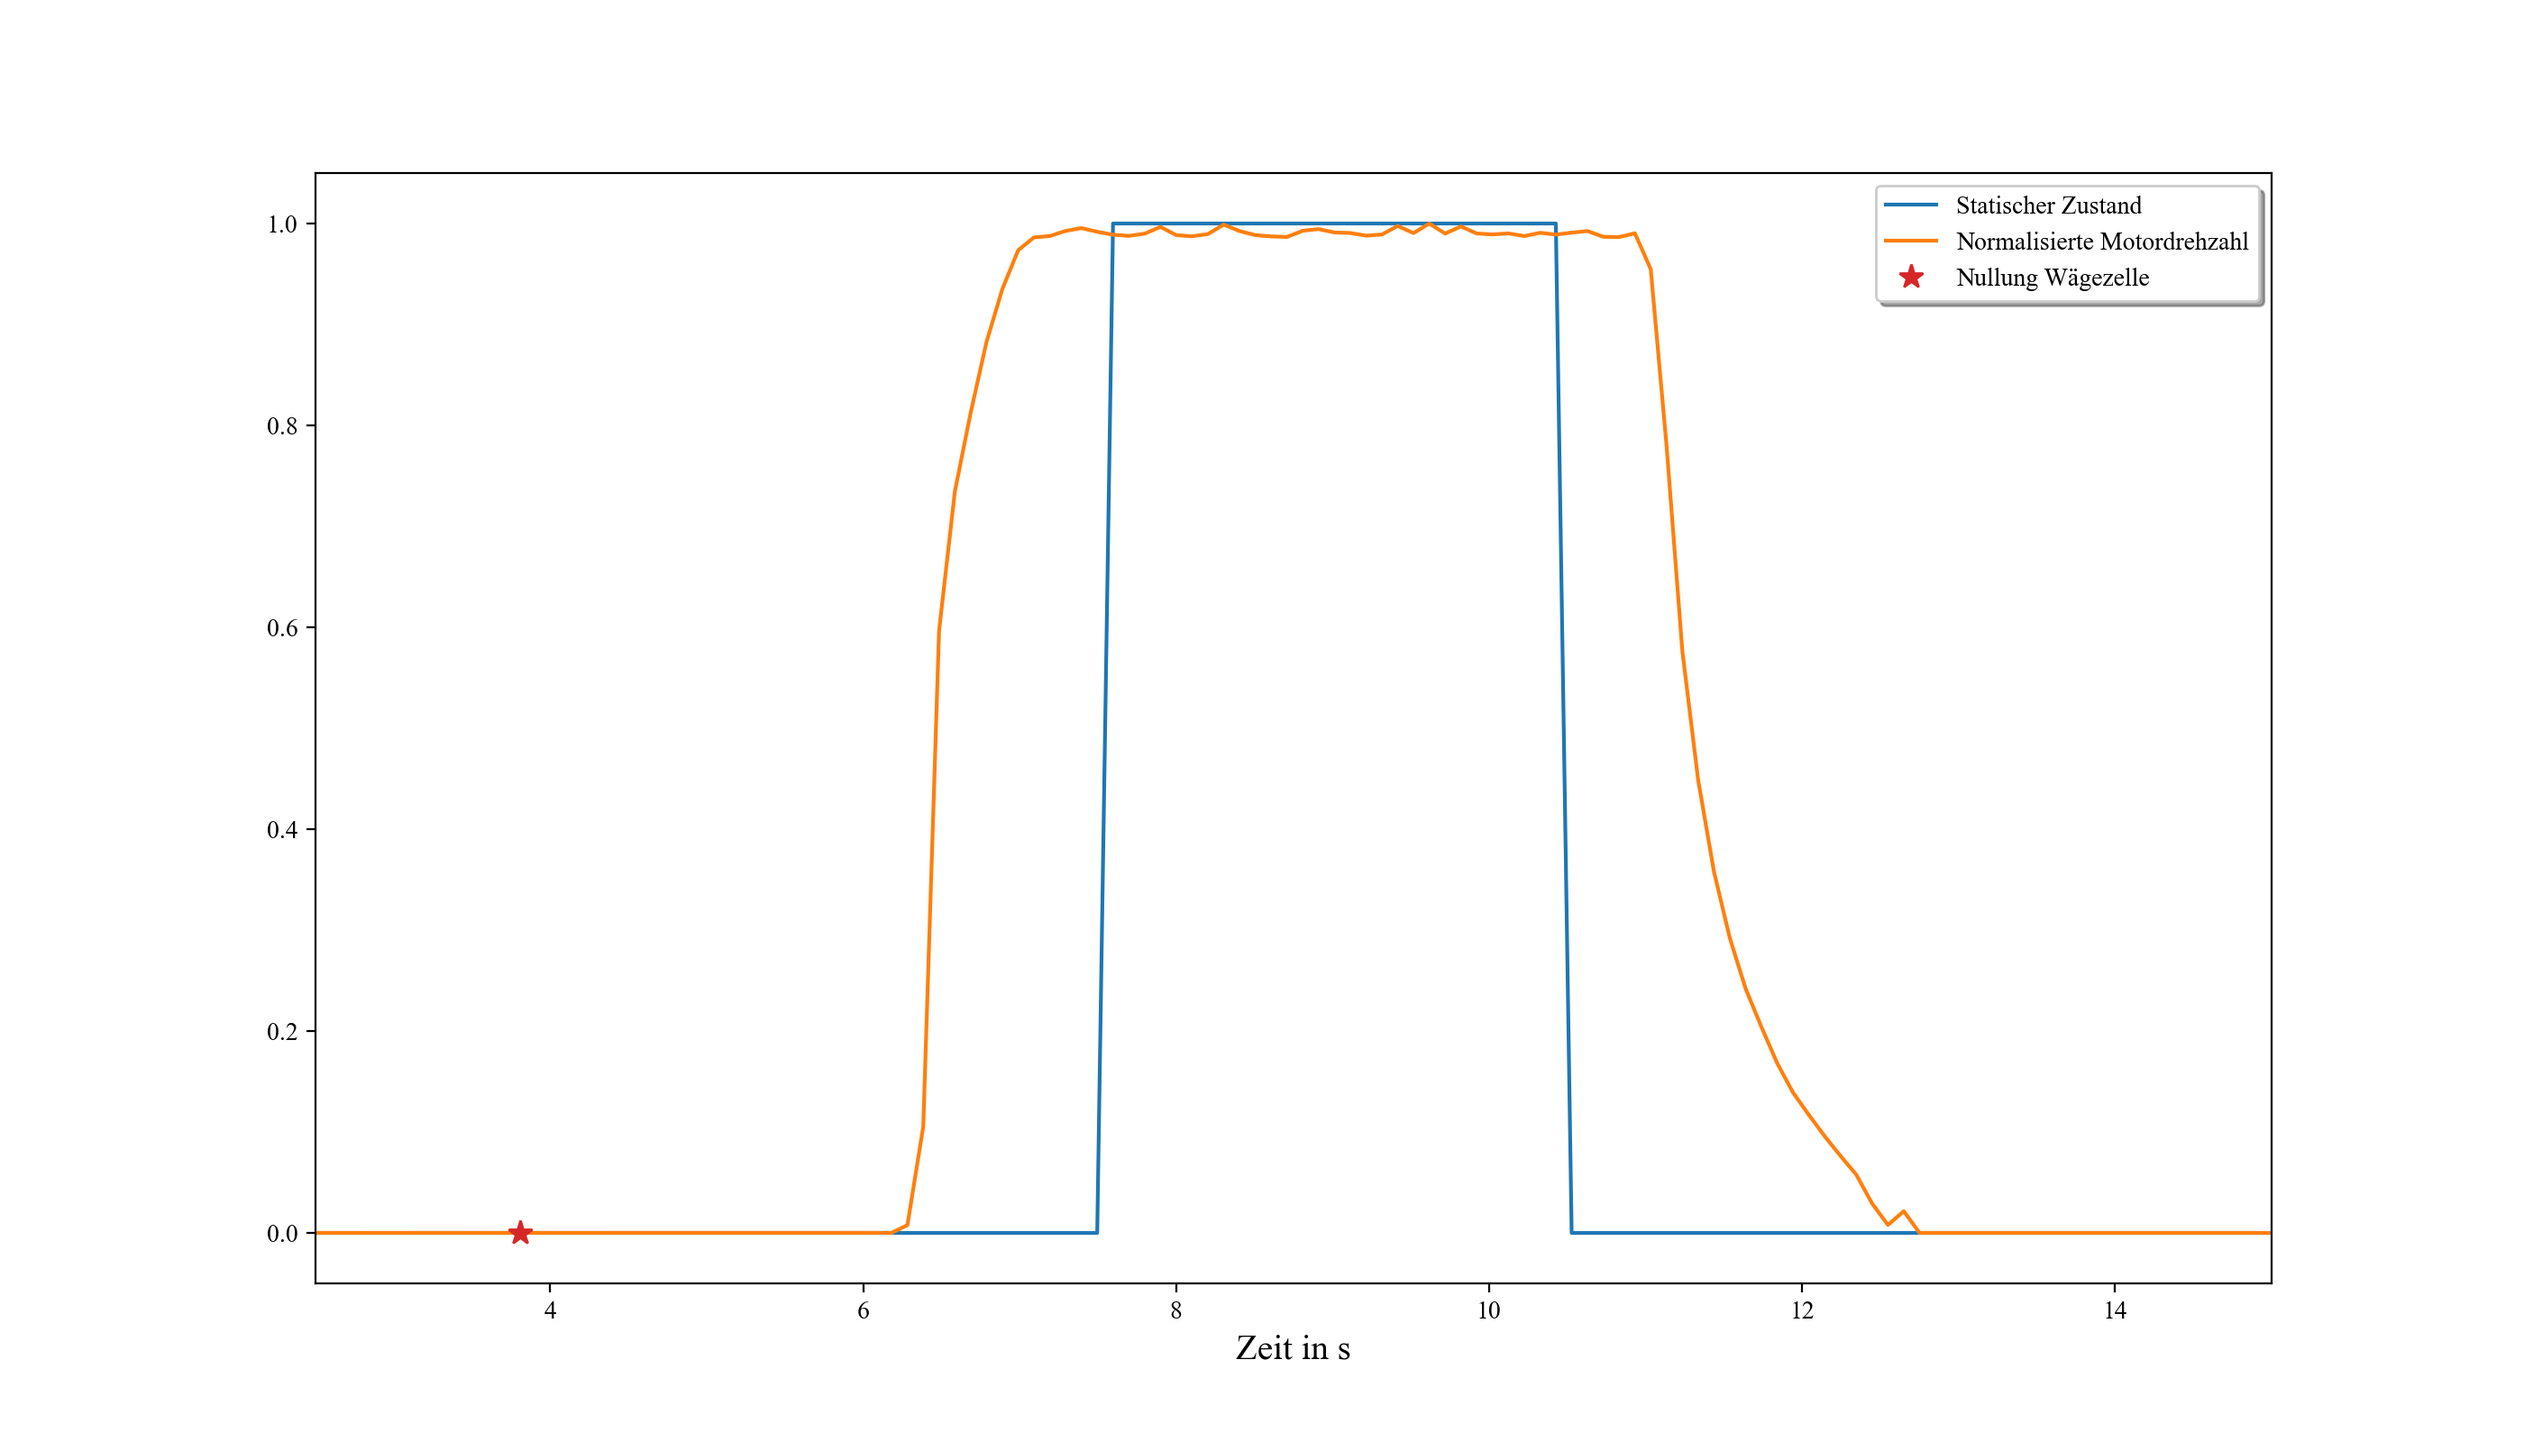
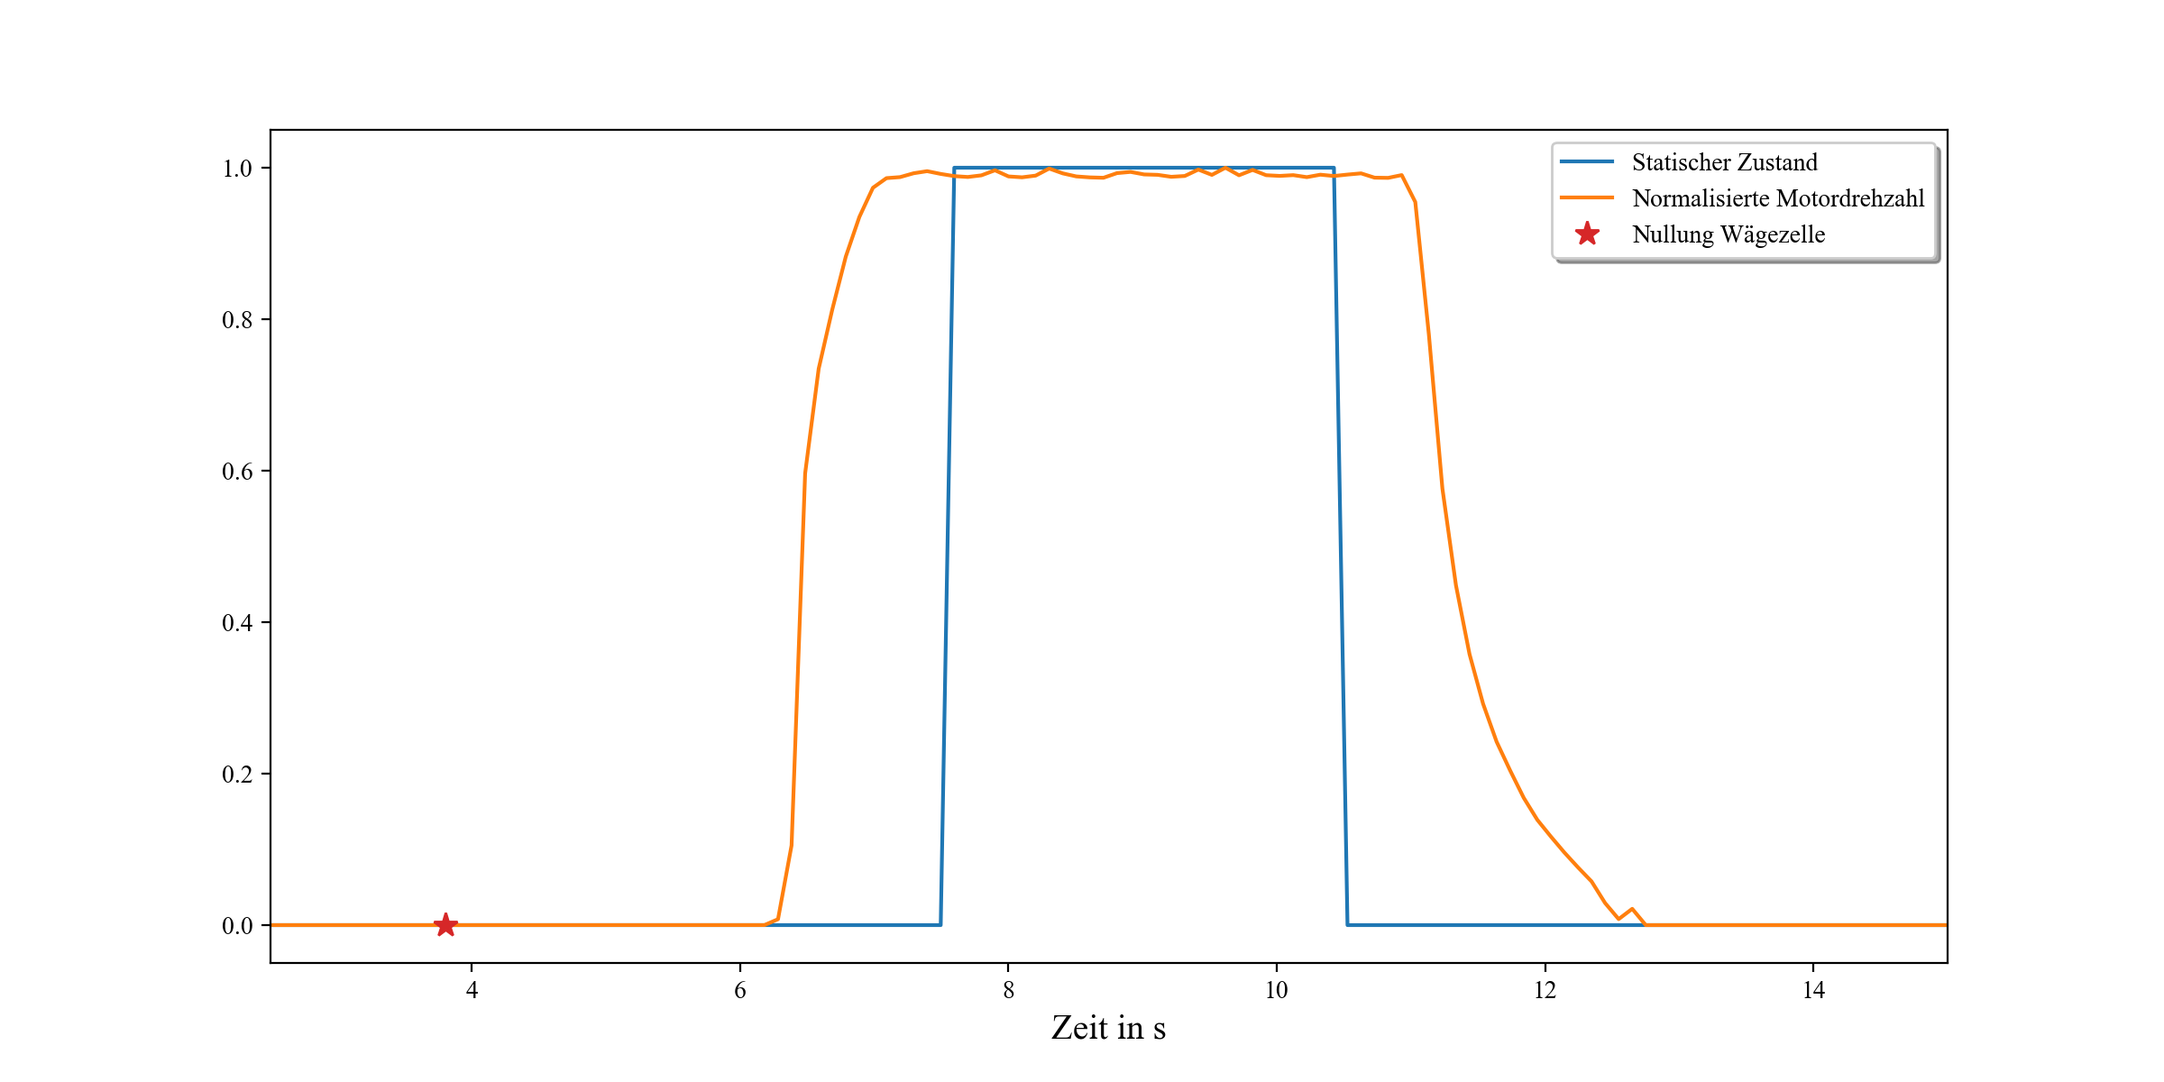
K4_Abb2_SteadyState img updated

diff --git a/Python/Test.py b/Python/Test.py
@@ -373,7 +373,7 @@ if __name__ == '__main__':
 
 
 		#plot_setup("Steady State", xlable="Time", ylable="isSteadyState", figsize=FIGSIZE_BIG_W)
-		plot_setup("Messwertentnahme im statischen Zustand", xlable="Zeit in s", ylable="", figsize=FIGSIZE_BIG_W)
+		plot_setup("Messwertentnahme im statischen Zustand", xlable="Zeit in s", ylable="", figsize=FIGSIZE_MED_W)
 
 		plot_x_y(Data[GROUP_TEST][TRACE_TIME], Data[GROUP_TEST][TRACE_IS_STEADY_STATE], label="Statischer Zustand")
 
